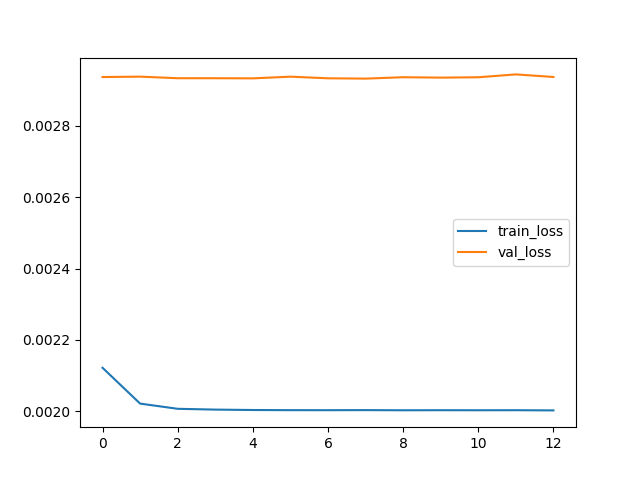
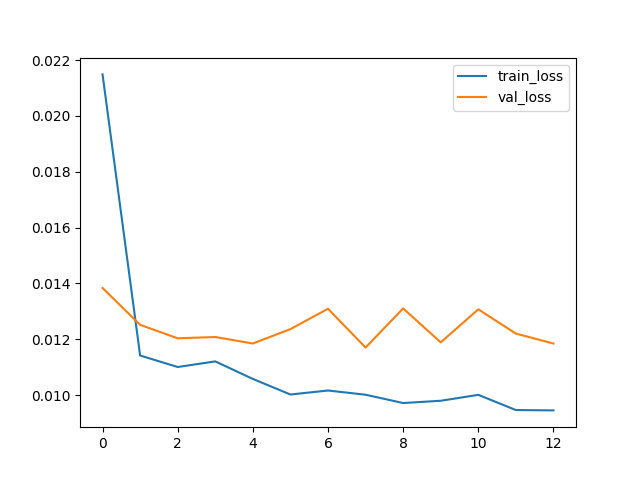
Refactor LSTM training and grid search scripts to enhance feature engineering, improve sequence creation, and update predicted return handling.

diff --git a/trade_lstm_grid_search.py b/trade_lstm_grid_search.py
@@ -1,198 +1,121 @@
-import os
+import yfinance as yf
 import pandas as pd
 import numpy as np
 from sklearn.preprocessing import MinMaxScaler
-import pandas_ta as ta
 from tensorflow.keras.models import Sequential
 from tensorflow.keras.layers import LSTM, Dense, Dropout
 from tensorflow.keras.callbacks import EarlyStopping
 import matplotlib.pyplot as plt
+import pandas_ta as ta
+from itertools import product
+from tqdm import tqdm
+import uuid
 
-# Fixed parameters
-SEQUENCE_LENGTH = 100
-LOOKAHEAD_PERIOD = 10
-SCALING_FACTOR = 200
-THRESHOLD = 0.2
-MAX_POSITION = 2.0
-TRANSACTION_COST = 0.001
+# Load tickers from CSV
+csv_data = pd.read_csv('daytrade_stocks.csv')
+tickers = csv_data['ticker'].tolist()
 
-# File paths
-MODEL_DIR = 'model'
-COMBINED_DATA_PATH = os.path.join(MODEL_DIR, 'nikkei_combined_5min.csv')
-RESULTS_PATH = os.path.join(MODEL_DIR, 'trading_results.csv')
-PLOT_PATH = os.path.join(MODEL_DIR, 'strategy_performance.png')
-FEATURES = ['Close', 'Returns', 'RSI', 'MACD', 'BB_Upper', 'BB_Lower', 'Sentiment_Proxy']
+# Parameter grid
+sequence_lengths = [20, 50, 100]
+lookahead_periods = [3, 5, 10]
+scaling_factors = [50, 100, 200]
+thresholds = [0.05, 0.1, 0.2]
 
-# 1. データ読み込み
-def load_data(file_path):
-    df = pd.read_csv(file_path, parse_dates=['datetime'])
-    if df.columns[0].startswith('Unnamed') or df.columns[0] == '':
-        df = df.drop(columns=df.columns[0])
-    df = df.set_index('datetime')
-    if df.index.duplicated().any():
-        print(f"Found {df.index.duplicated().sum()} duplicate timestamps. Dropping duplicates.")
-        df = df[~df.index.duplicated(keep='first')]
-    df = df.dropna()
-    
-    # Filter date range
-    start_date = pd.to_datetime('2024-02-27')
-    end_date = pd.to_datetime('2024-04-27')
-    df = df[(df.index >= start_date) & (df.index <= end_date)]
-    
-    return df
+# Results storage
+results = []
 
-# 2. 特徴量エンジニアリング
-def engineer_features(df):
-    df = df.copy()
-    
-    df['Close'] = df['close']
-    df['Returns'] = df['close'].pct_change()
-    df['Future_Return'] = (df['close'].shift(-LOOKAHEAD_PERIOD) - df['close']) / df['close']
-    df['RSI'] = ta.rsi(df['close'], length=14)
-    df['MACD'] = ta.macd(df['close'], fast=12, slow=26, signal=9)['MACD_12_26_9']
-    bb = ta.bbands(df['close'], length=20, std=2)
-    df['BB_Upper'] = bb['BBU_20_2.0']
-    df['BB_Lower'] = bb['BBL_20_2.0']
-    df['Price_Spread'] = (df['high'] - df['low']) / df['close']
-    df['Sentiment_Proxy'] = df['Price_Spread'] * df['volume']
-    
-    df[FEATURES + ['Future_Return']] = df[FEATURES + ['Future_Return']].replace([np.inf, -np.inf], np.nan)
-    df[FEATURES + ['Future_Return']] = df[FEATURES + ['Future_Return']].interpolate(method='linear').fillna(method='bfill')
-    df = df.dropna(subset=FEATURES + ['Future_Return'])
-    
-    return df
+# Grid search
+for ticker, seq_len, look_ahead, scale_factor, thresh in tqdm(product(tickers, sequence_lengths, lookahead_periods, scaling_factors, thresholds), total=len(tickers) * len(sequence_lengths) * len(lookahead_periods) * len(scaling_factors) * len(thresholds)):
+    try:
+        # データ取得
+        data = yf.download(ticker, interval="5m", start="2025-02-27", end="2025-04-27")
+        if data.empty or len(data) < 100:
+            continue
+        if isinstance(data.columns, pd.MultiIndex):
+            data.columns = data.columns.get_level_values(0)
 
-# 3. シーケンスデータ作成
-def create_sequences(data, seq_length, look_ahead):
-    X, y = [], []
-    for i in range(len(data) - seq_length - look_ahead + 1):
-        X.append(data[i:(i + seq_length), :len(FEATURES)])  # Use only FEATURES (7 columns)
-        y.append(data[i + seq_length + look_ahead - 1, len(FEATURES)])  # Future_Return is the last column
-    return np.array(X), np.array(y)
+        # テクニカル指標
+        data['Returns'] = data['Close'].pct_change()
+        data['Future_Return'] = (data['Close'].shift(-look_ahead) - data['Close']) / data['Close']
+        data['RSI'] = ta.rsi(data['Close'], length=14)
+        data['MACD'] = ta.macd(data['Close'], fast=12, slow=26, signal=9)['MACD_12_26_9']
+        data['BB_Upper'] = ta.bbands(data['Close'], length=20, std=2)['BBU_20_2.0']
+        data['BB_Lower'] = ta.bbands(data['Close'], length=20, std=2)['BBL_20_2.0']
+        data['Price_Spread'] = (data['High'] - data['Low']) / data['Close']
+        data['Sentiment_Proxy'] = data['Price_Spread'] * data['Volume']
 
-# メイン処理
-def main():
-    print("データを読み込み中...")
-    data = load_data(COMBINED_DATA_PATH)
-    
-    if data.empty or len(data) < 100:
-        print("データが不足しています。")
-        return
-    
-    print("特徴量を計算中...")
-    data = engineer_features(data)
-    
-    # Debug: Check Future_Return
-    print(f"Future_Return distribution:\n{data['Future_Return'].describe()}")
-    
-    # データ準備
-    scaler = MinMaxScaler()
-    scaled_data = scaler.fit_transform(data[FEATURES + ['Future_Return']])
-    
-    print("シーケンスデータを作成中...")
-    X, y = create_sequences(scaled_data, SEQUENCE_LENGTH, LOOKAHEAD_PERIOD)
-    
-    if len(X) < 50:
-        print("シーケンスデータが不足しています。")
-        return
-    
-    # 訓練・テストデータ分割
-    train_size = int(0.8 * len(X))
-    X_train, X_test = X[:train_size], X[train_size:]
-    y_train, y_test = y[:train_size], y[train_size:]
-    
-    # Debug: Check shapes and target distribution
-    print(f"X shape: {X.shape}, y shape: {y.shape}")
-    print(f"y distribution:\n{pd.Series(y).describe()}")
-    
-    # LSTMモデル
-    print("モデルを構築中...")
-    model = Sequential([
-        LSTM(64, return_sequences=True, input_shape=(SEQUENCE_LENGTH, len(FEATURES))),
-        Dropout(0.2),
-        LSTM(32),
-        Dropout(0.2),
-        Dense(1)
-    ])
-    model.compile(optimizer='adam', loss='mse')
-    
-    print("モデルを学習中...")
-    early_stopping = EarlyStopping(monitor='val_loss', patience=5, restore_best_weights=True)
-    history = model.fit(
-        X_train, y_train,
-        epochs=30,
-        batch_size=32,
-        validation_data=(X_test, y_test),
-        callbacks=[early_stopping],
-        verbose=1
-    )
-    
-    # Plot training history
-    plt.plot(history.history['loss'], label='train_loss')
-    plt.plot(history.history['val_loss'], label='val_loss')
-    plt.legend()
-    plt.savefig(os.path.join(MODEL_DIR, 'loss_plot.png'))
-    plt.close()
-    
-    # 予測
-    print("予測を生成中...")
-    predictions = model.predict(X, verbose=0)  # Predict on full dataset
-    
-    # 予測結果をデータフレームに追加
-    pred_indices = data.index[SEQUENCE_LENGTH-1:len(X)+SEQUENCE_LENGTH-1]
-    data['Predicted_Return'] = pd.Series(np.concatenate([np.zeros(SEQUENCE_LENGTH-1), predictions.flatten()]), index=data.index)
-    
-    # ポジションサイジング
-    print("ポジションサイジングを計算中...")
-    data['Position_Size'] = np.clip(np.abs(data['Predicted_Return']) * SCALING_FACTOR, 0, MAX_POSITION) * np.sign(data['Predicted_Return'])
-    data['Position_Size'] = np.where(np.abs(data['Position_Size']) < THRESHOLD, 0, data['Position_Size'])
-    
-    # 戦略リターン
-    print("戦略リターンを計算中...")
-    data['Strategy_Return'] = data['Position_Size'] * data['Future_Return']
-    data['Strategy_Return'] = data['Strategy_Return'] - TRANSACTION_COST * data['Position_Size'].diff().abs()
-    
-    # Debug: Check Strategy_Return and trades
-    print(f"Strategy_Return distribution:\n{data['Strategy_Return'].describe()}")
-    trades = data[data['Position_Size'].diff().abs() > 0]
-    print(f"Trades:\n{trades[['Position_Size', 'Predicted_Return', 'Future_Return', 'Strategy_Return']]}")
-    
-    # 結果評価
-    print("結果を評価中...")
-    cumulative_return = (1 + data['Strategy_Return'].fillna(0)).cumprod().iloc[-1]
-    sharpe_ratio = data['Strategy_Return'].mean() / data['Strategy_Return'].std() * np.sqrt(252 * 66) if data['Strategy_Return'].std() != 0 else 0
-    trade_count = int(data['Position_Size'].diff().abs().gt(0).sum())
-    total_cost = TRANSACTION_COST * data['Position_Size'].diff().abs().sum()
-    pred_return_std = data['Predicted_Return'].std()
-    
-    # 結果を保存
-    results = [{
-        'cumulative_return': cumulative_return,
-        'sharpe_ratio': sharpe_ratio,
-        'trade_count': trade_count,
-        'total_cost': total_cost,
-        'pred_return_std': pred_return_std
-    }]
-    pd.DataFrame(results).to_csv(RESULTS_PATH, index=False)
-    
-    # プロット
-    plt.figure(figsize=(10, 6))
-    (1 + data['Strategy_Return'].fillna(0)).cumprod().plot(label='Strategy Cumulative Return')
-    plt.title('Nikkei LSTM Trading Strategy Performance')
-    plt.xlabel('Date')
-    plt.ylabel('Cumulative Return')
-    plt.legend()
-    plt.savefig(PLOT_PATH)
-    plt.close()
-    
-    print("トレーディング結果:")
-    print(f"累積リターン: {cumulative_return:.4f}")
-    print(f"シャープレシオ: {sharpe_ratio:.4f}")
-    print(f"取引回数: {trade_count}")
-    print(f"総取引コスト: {total_cost:.4f}")
-    print(f"予測リターンの標準偏差: {pred_return_std:.4f}")
-    print(f"結果を保存: {RESULTS_PATH}")
-    print(f"パフォーマンスプロット: {PLOT_PATH}")
+        # データ準備
+        features = ['Close', 'Returns', 'RSI', 'MACD', 'BB_Upper', 'BB_Lower', 'Sentiment_Proxy']
+        data = data.dropna()
+        scaler = MinMaxScaler()
+        scaled_data = scaler.fit_transform(data[features])
 
-if __name__ == '__main__':
-    main()
+        X, y = [], []
+        for i in range(len(scaled_data) - seq_len - look_ahead):
+            X.append(scaled_data[i:i + seq_len])
+            y.append(data['Future_Return'].iloc[i + seq_len])
+        X, y = np.array(X), np.array(y)
+
+        if len(X) < 50:
+            continue
+
+        # 訓練・テストデータ分割
+        train_size = int(0.8 * len(X))
+        X_train, X_test = X[:train_size], X[train_size:]
+        y_train, y_test = y[:train_size], y[train_size:]
+
+        # LSTMモデル
+        model = Sequential([
+            LSTM(64, return_sequences=True, input_shape=(seq_len, len(features))),
+            Dropout(0.2),
+            LSTM(32),
+            Dropout(0.2),
+            Dense(1)
+        ])
+        model.compile(optimizer='adam', loss='mse')
+        early_stopping = EarlyStopping(monitor='val_loss', patience=5, restore_best_weights=True)
+        model.fit(X_train, y_train, epochs=30, batch_size=32, validation_data=(X_test, y_test), callbacks=[early_stopping], verbose=0)
+
+        # 予測
+        predictions = model.predict(X_test, verbose=0)
+        data['Predicted_Return'] = pd.Series(np.concatenate([np.zeros(train_size + seq_len + look_ahead), predictions.flatten()]), index=data.index)
+
+        # ポジションサイジング
+        max_position = 2.0
+        data['Position_Size'] = np.clip(np.abs(data['Predicted_Return']) * scale_factor, 0, max_position) * np.sign(data['Predicted_Return'])
+        data['Position_Size'] = np.where(np.abs(data['Position_Size']) < thresh, 0, data['Position_Size'])
+
+        # 戦略リターン
+        data['Strategy_Return'] = data['Position_Size'] * data['Future_Return']
+        transaction_cost = 0.001
+        data['Strategy_Return'] = data['Strategy_Return'] - transaction_cost * data['Position_Size'].diff().abs()
+
+        # 結果評価
+        cumulative_return = (1 + data['Strategy_Return'].fillna(0)).cumprod().iloc[-1]
+        sharpe_ratio = data['Strategy_Return'].mean() / data['Strategy_Return'].std() * np.sqrt(252 * 66) if data['Strategy_Return'].std() != 0 else 0
+        trade_count = int(data['Position_Size'].diff().abs().gt(0).sum())
+        total_cost = transaction_cost * data['Position_Size'].diff().abs().sum()
+        pred_return_std = data['Predicted_Return'].std()
+
+        # Save results
+        results.append({
+            'ticker': ticker,
+            'sequence_length': seq_len,
+            'lookahead_period': look_ahead,
+            'scaling_factor': scale_factor,
+            'threshold': thresh,
+            'cumulative_return': cumulative_return,
+            'sharpe_ratio': sharpe_ratio,
+            'trade_count': trade_count,
+            'total_cost': total_cost,
+            'pred_return_std': pred_return_std
+        })
+
+        # Save incrementally
+        pd.DataFrame(results).to_csv('optimization_results.csv', index=False)
+
+    except Exception as e:
+        print(f"Error for {ticker}, seq_len={seq_len}, look_ahead={look_ahead}, scale_factor={scale_factor}, thresh={thresh}: {e}")
+        continue
+
+print("Optimization complete. Results saved to optimization_results.csv")

diff --git a/train_nikkei_lstm_fixed.py b/train_nikkei_lstm_fixed.py
@@ -65,10 +65,12 @@ def engineer_features(df):
 # 3. シーケンスデータ作成
 def create_sequences(data, seq_length, look_ahead):
     X, y = [], []
-    for i in range(len(data) - seq_length - look_ahead):
-        X.append(data[i:i + seq_length])
-        y.append(data[i + seq_length + look_ahead - 1, -1])  # Future_Return is the last column
-    return np.array(X), np.array(y)
+    indices = []
+    for i in range(len(data) - seq_length - look_ahead + 1):
+        X.append(data[i:(i + seq_length), :len(FEATURES)])
+        y.append(data[i + seq_length + look_ahead - 1, len(FEATURES)])
+        indices.append(i + seq_length + look_ahead - 1)
+    return np.array(X), np.array(y), indices
 
 # メイン処理
 def main():
@@ -90,7 +92,7 @@ def main():
     scaled_data = scaler.fit_transform(data[FEATURES + ['Future_Return']])
     
     print("シーケンスデータを作成中...")
-    X, y = create_sequences(scaled_data, SEQUENCE_LENGTH, LOOKAHEAD_PERIOD)
+    X, y, seq_indices = create_sequences(scaled_data, SEQUENCE_LENGTH, LOOKAHEAD_PERIOD)
     
     if len(X) < 50:
         print("シーケンスデータが不足しています。")
@@ -136,11 +138,18 @@ def main():
     
     # 予測
     print("予測を生成中...")
-    predictions = model.predict(X, verbose=0)  # Predict on full dataset
+    predictions = model.predict(X, verbose=0)
     
     # 予測結果をデータフレームに追加
-    pred_indices = data.index[SEQUENCE_LENGTH-1:len(X)+SEQUENCE_LENGTH-1]
-    data['Predicted_Return'] = pd.Series(np.concatenate([np.zeros(SEQUENCE_LENGTH-1), predictions.flatten()]), index=data.index)
+    pred_df = pd.DataFrame({
+        'Predicted_Return': predictions.flatten()
+    }, index=data.index[seq_indices])
+    
+    data = data.join(pred_df, how='left')
+    data['Predicted_Return'] = data['Predicted_Return'].fillna(0)
+    
+    # Debug: Check Predicted_Return
+    print(f"Predicted_Return distribution:\n{data['Predicted_Return'].describe()}")
     
     # ポジションサイジング
     print("ポジションサイジングを計算中...")
@@ -159,7 +168,7 @@ def main():
     
     # 結果評価
     print("結果を評価中...")
-    cumulative_return =而且(1 + data['Strategy_Return'].fillna(0)).cumprod().iloc[-1]
+    cumulative_return = (1 + data['Strategy_Return'].fillna(0)).cumprod().iloc[-1]
     sharpe_ratio = data['Strategy_Return'].mean() / data['Strategy_Return'].std() * np.sqrt(252 * 66) if data['Strategy_Return'].std() != 0 else 0
     trade_count = int(data['Position_Size'].diff().abs().gt(0).sum())
     total_cost = TRANSACTION_COST * data['Position_Size'].diff().abs().sum()
